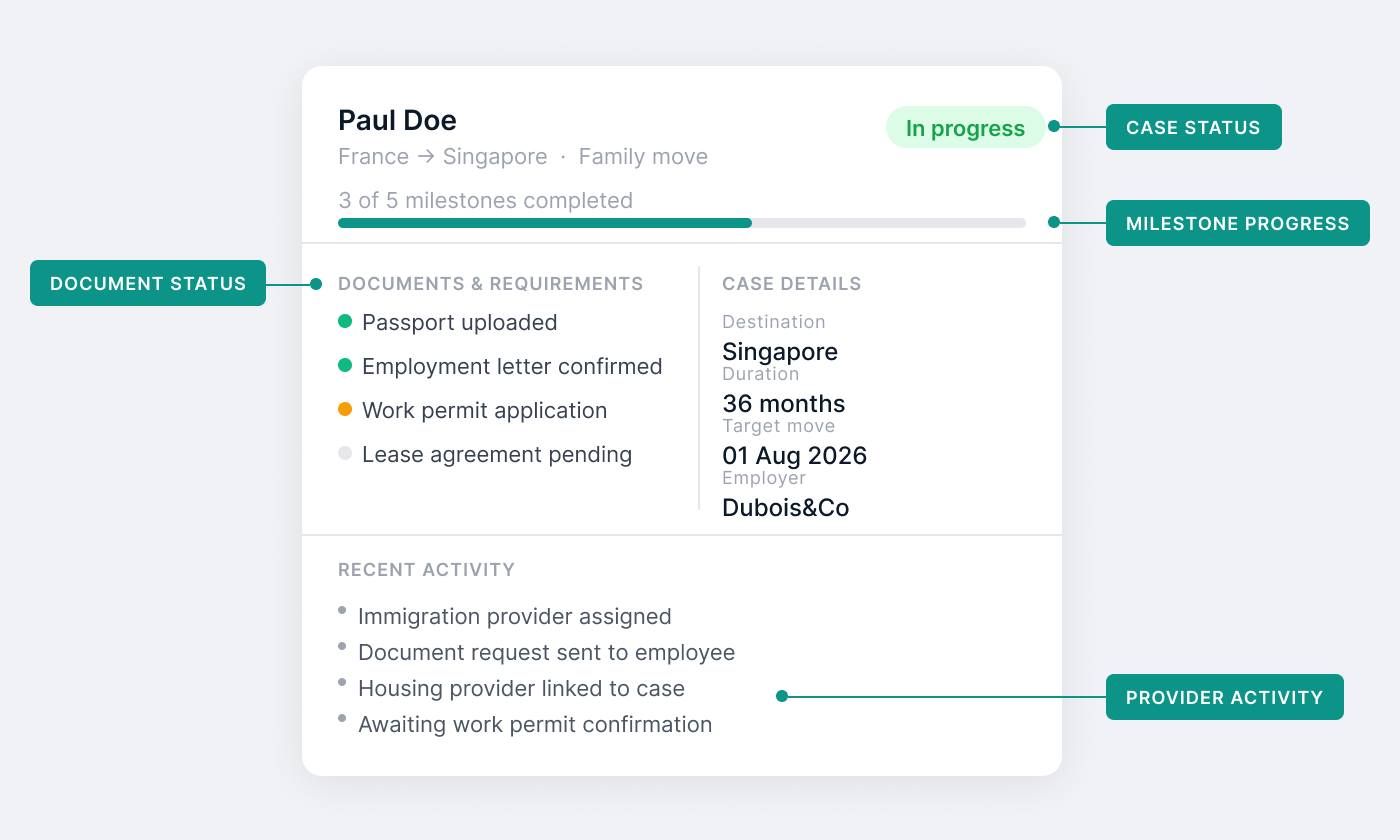
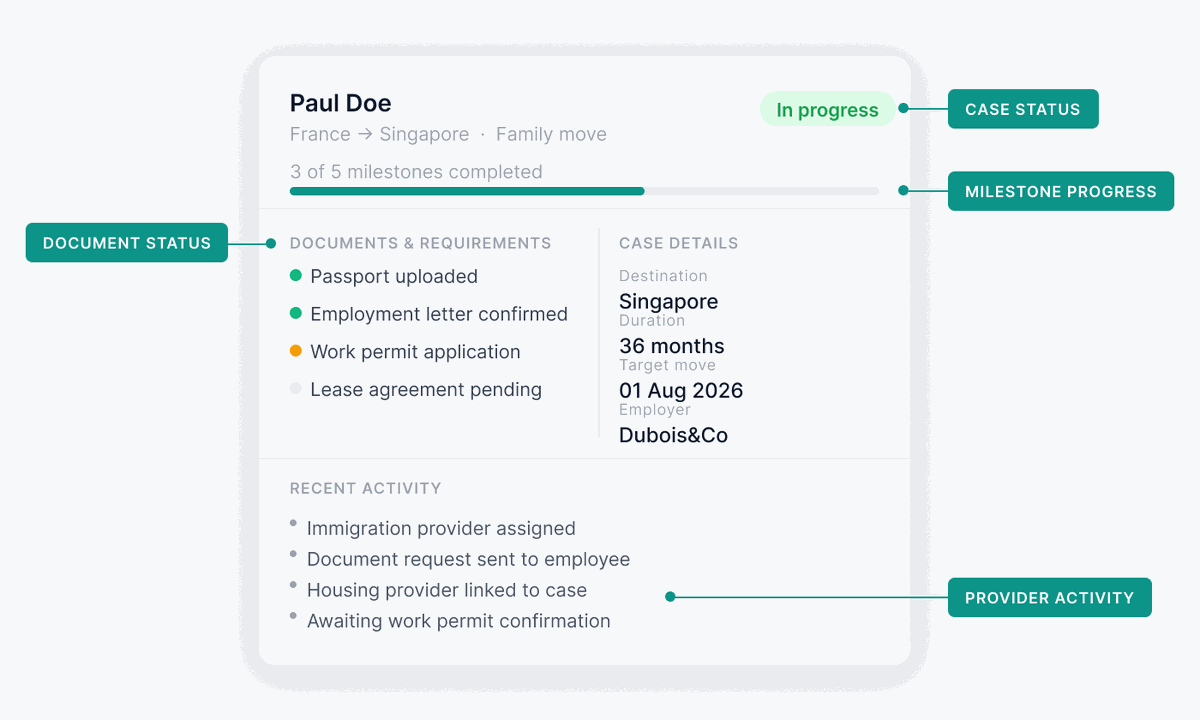
perf(images): [AIQ-2173] re-cut the 3 assets still shipping oversized
relopass-logo.png            122x128  ->   80x84     20002 ->   5204 B  -74%
  relopass-full-logo.png       200x300  ->  128x192    19315 ->   6061 B  -69%
  screenshot-hero-case-card.png 1400x840 -> 1200x720  133098 -> 101106 B  -24%
                                                       TOTAL  -60044 B  (-35%)

Each is now exactly 2x its rendered CSS box, the standard retina factor:
h-10/w-10 = 40px -> 80, sm:h-24 = 96px -> 192, max-w-[600px] -> 1200.

Two of the ticket's five assets were already done by #2072 and are left alone:
screenshot-hr-assignments.png is 1024 for a 512px box and screenshot-employee-plan.png
is 992 for a 496px box — both already 2x.

A CORRECTION TO THE TICKET

It states the hero card renders into a 512px box. It does not: `Landing.tsx` gives it
`width={600}` and `max-w-[600px]`, so it needs 1200px at 2x. Cutting to "512 x 2 = 1024"
would have made it BLURRY on every retina screen. 1200 is also the recommended minimum
width for an og:image, and this file is the og:image (`index.html:11`,
`usePageMeta.ts:24`) — which is why #2072 deliberately left it alone. 1200x720 is the one
size that satisfies the display box and the social card at once, so this refines that
earlier decision rather than reversing it.

Cache-busting matters here: the logo URLs carry `?v=` and a returning visitor keeps the
old bytes without a bump, so the saving would not reach anyone already on the site.
[…]

diff --git a/frontend/src/lib/publicImageDimensions.ts b/frontend/src/lib/publicImageDimensions.ts
@@ -15,14 +15,14 @@
  * (e2e/cls.spec.ts) is what catches a mismatch.
  */
 export const PUBLIC_IMAGE_DIMENSIONS: Record<string, { width: number; height: number }> = {
-  '/screenshot-hero-case-card.png': { width: 1400, height: 840 },
+  '/screenshot-hero-case-card.png': { width: 1200, height: 720 },
   '/screenshot-hr-assignments.png': { width: 1024, height: 444 },
   '/screenshot-employee-plan.png': { width: 992, height: 847 },
   '/screenshot-destination-intelligence.png': { width: 1040, height: 669 },
   '/screenshot-provider-recommendations.png': { width: 1040, height: 701 },
   '/screenshot-service-package.png': { width: 660, height: 314 },
-  '/relopass-logo.png': { width: 122, height: 128 },
-  '/relopass-full-logo.png': { width: 200, height: 300 },
+  '/relopass-logo.png': { width: 80, height: 84 },
+  '/relopass-full-logo.png': { width: 128, height: 192 },
 };
 
 /**

diff --git a/frontend/src/components/public/PublicHeader.tsx b/frontend/src/components/public/PublicHeader.tsx
@@ -5,7 +5,9 @@ import { Container } from '../antigravity';
 import { buildRoute, ROUTE_DEFS } from '../../navigation/routes';
 import { useDemoBooking } from '../../hooks/useDemoBooking';
 
-const logoUrl = '/relopass-logo.png?v=3';
+// v=4: the source was 122x128 for a 40px box. Re-cut to 80x84 (2x of h-10/w-10);
+// the version bump is what makes returning visitors pick up the smaller file.
+const logoUrl = '/relopass-logo.png?v=4';
 
 const PUBLIC_NAV = [
   { key: 'platform', label: 'Platform', path: ROUTE_DEFS.platform.path },
@@ -35,8 +37,8 @@ export const PublicHeader: React.FC = () => {
           >
             <img
               src={logoUrl}
-          width={122}
-          height={128}
+          width={80}
+          height={84}
               alt="ReloPass"
               className="h-8 w-8 sm:h-10 sm:w-10 rounded-xl object-contain"
             />

diff --git a/frontend/src/components/public/PublicFooter.tsx b/frontend/src/components/public/PublicFooter.tsx
@@ -107,9 +107,9 @@ export const PublicFooter: React.FC = () => {
               © {new Date().getFullYear()} ReloPass. All rights reserved.
             </p>
             <img
-              src="/relopass-full-logo.png?v=2"
-              width={200}
-              height={300}
+              src="/relopass-full-logo.png?v=3"
+              width={128}
+              height={192}
               alt="ReloPass"
               className="h-20 w-auto sm:h-24"
             />
